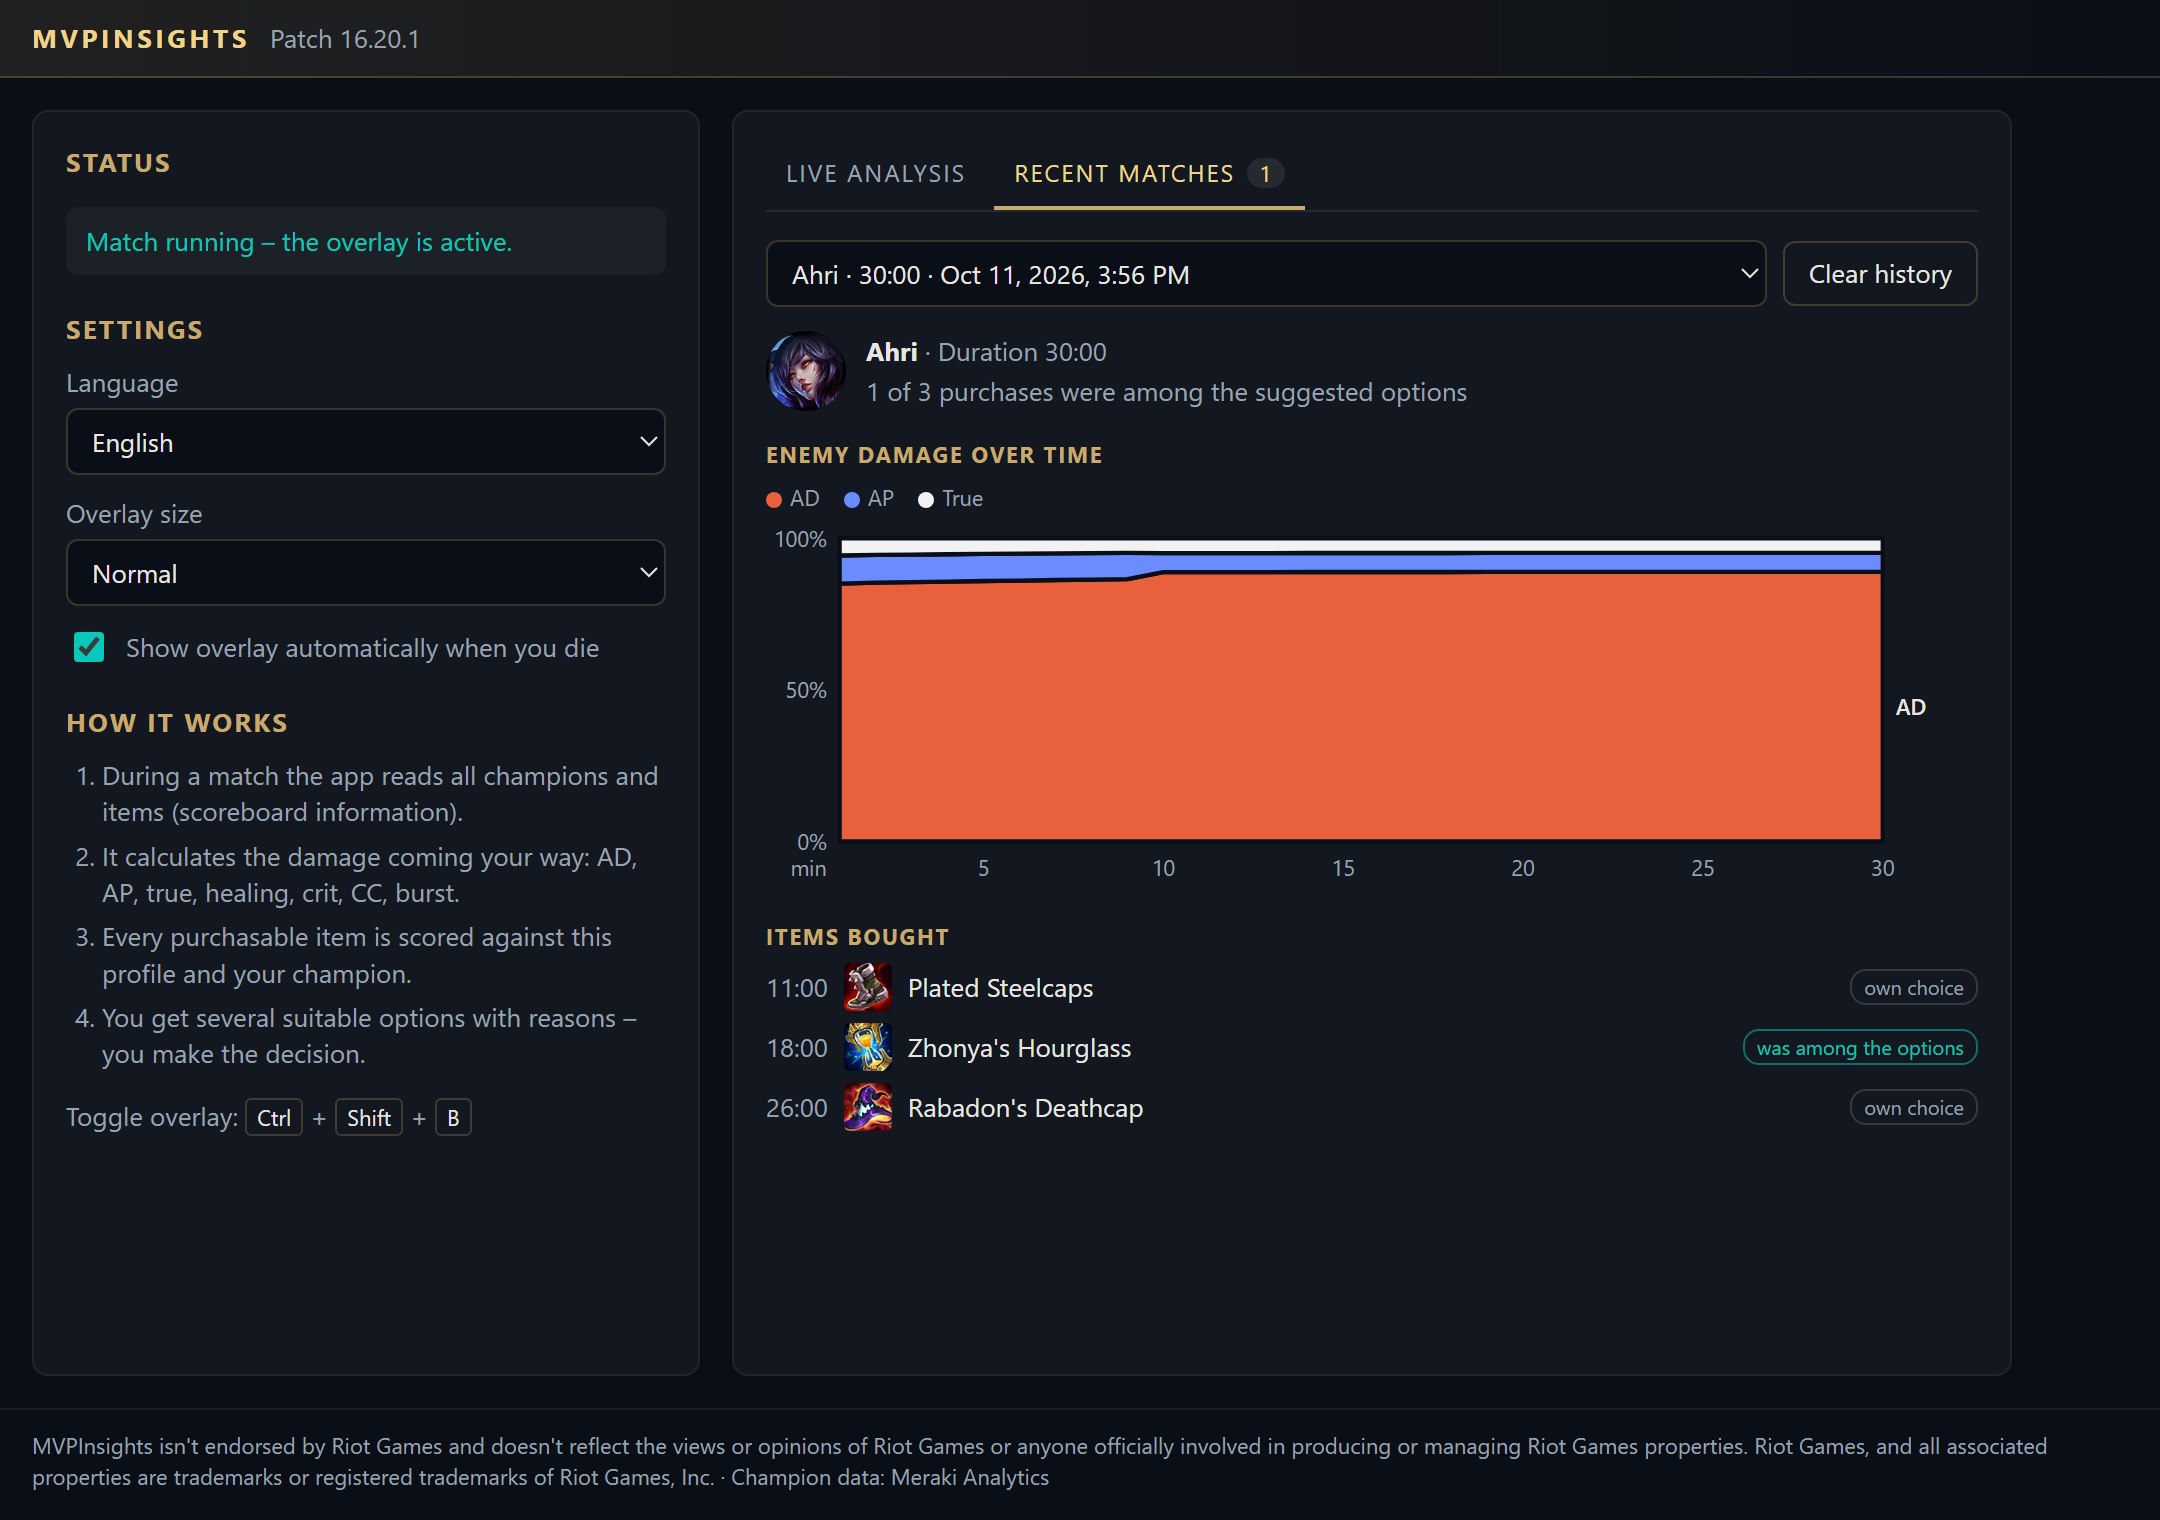
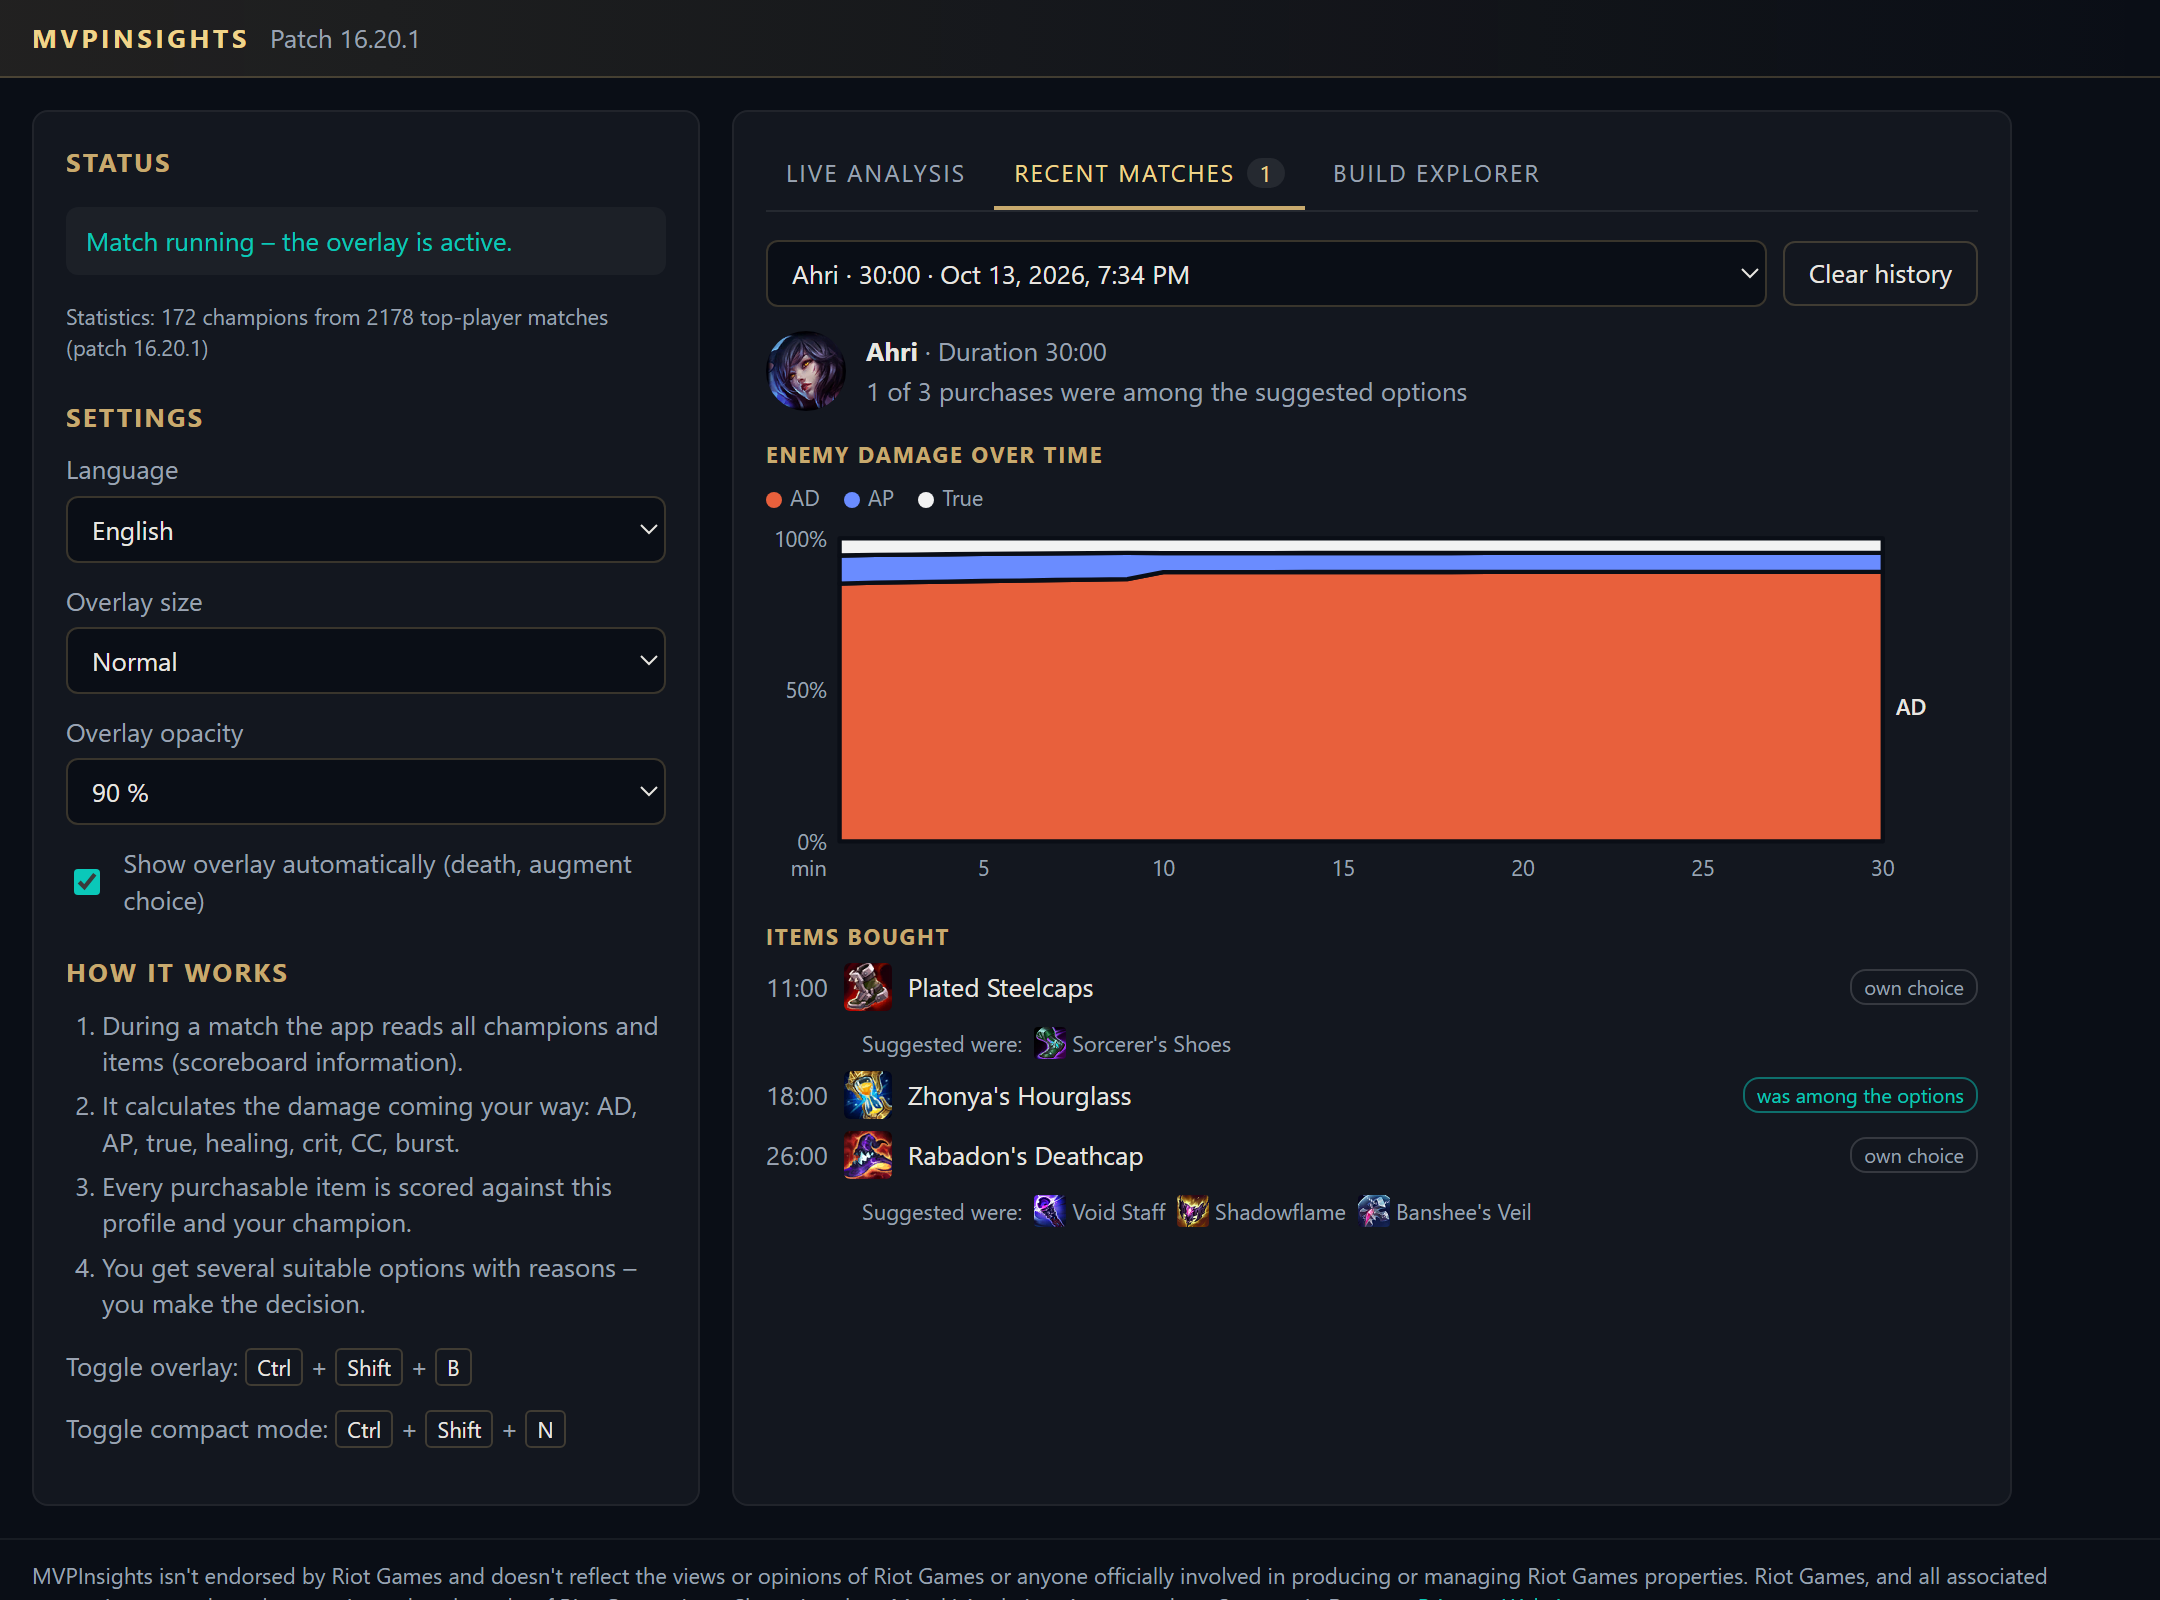
Show build explorer, lane features and new screenshots

diff --git a/index.html b/index.html
@@ -66,7 +66,7 @@
 
     <div class="shots">
       <figure>
-        <img class="shot" src="overlay.png" width="1040" height="1096" alt="In-game overlay: enemy damage split and item options with reasons and what you can buy right now" />
+        <img class="shot" src="overlay.png" width="1040" height="1120" alt="In-game overlay: enemy damage split and item options with reasons and what you can buy right now" />
         <figcaption>In-game overlay (toggle with a hotkey)</figcaption>
       </figure>
       <figure>
@@ -98,8 +98,35 @@
     </section>
 
     <section>
+      <h2>More features</h2>
+      <div class="grid">
+        <div class="card">
+          <h3>Your lane opponent first</h3>
+          <p>Starting items and your first item depend most on who you lane against – melee or ranged, AD or AP. Later the whole enemy team counts.</p>
+        </div>
+        <div class="card">
+          <h3>What top players build</h3>
+          <p>Our own statistics from Challenger, Grandmaster and Master matches via Riot's official API – how often, not win rates.</p>
+        </div>
+        <div class="card">
+          <h3>Build explorer</h3>
+          <p>Pick a champion and position to see common first items per situation and what top players build next.</p>
+        </div>
+        <div class="card">
+          <h3>ARAM Mayhem augments</h3>
+          <p>The offered augments sorted by how well they fit your champion – with reasons, without win rates.</p>
+        </div>
+      </div>
+    </section>
+
+    <section>
+      <h2>Build explorer</h2>
+      <img class="shot" src="explorer.png" width="2160" height="2360" alt="Build explorer: common first, second and third items for Lee Sin jungle, first item by situation and build paths after the first item" />
+    </section>
+
+    <section>
       <h2>Post-game review</h2>
-      <img class="shot" src="history.png" width="2160" height="1520" alt="Post-game review: enemy damage over time and items bought, marked as suggested option or own choice" />
+      <img class="shot" src="history.png" width="2160" height="1600" alt="Post-game review: enemy damage over time and items bought, marked as suggested option or own choice" />
     </section>
 
     <section>
